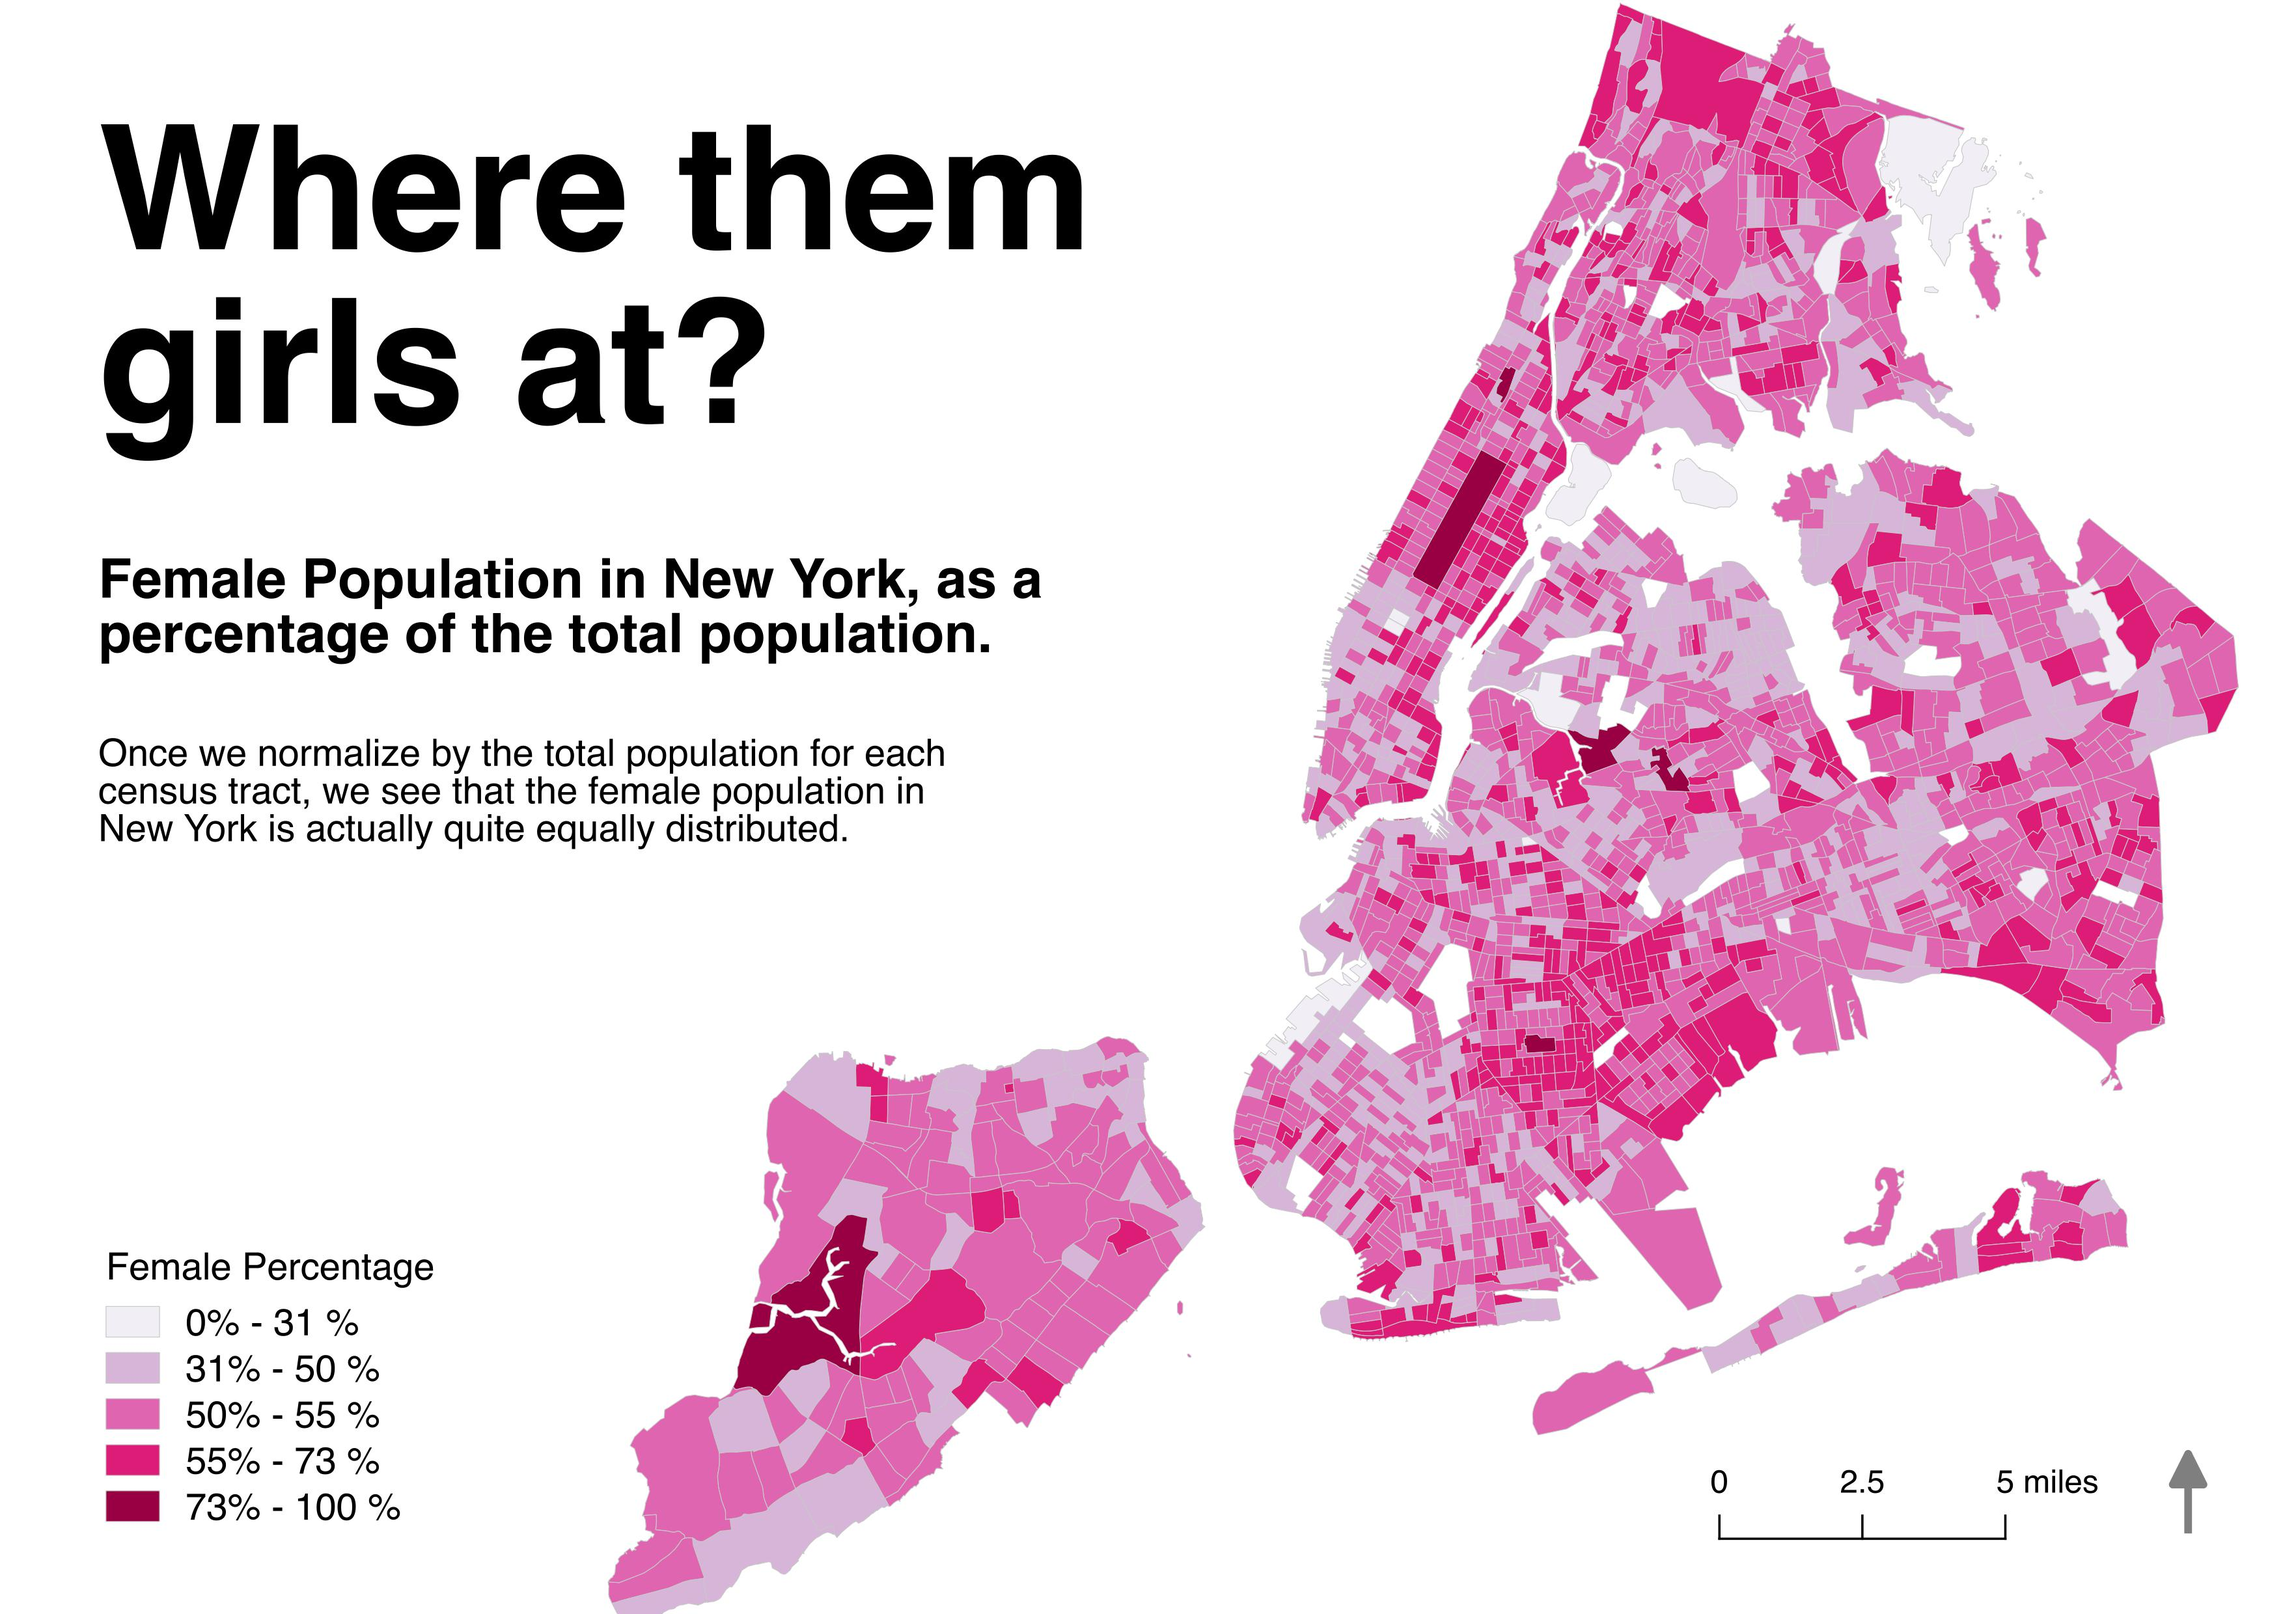
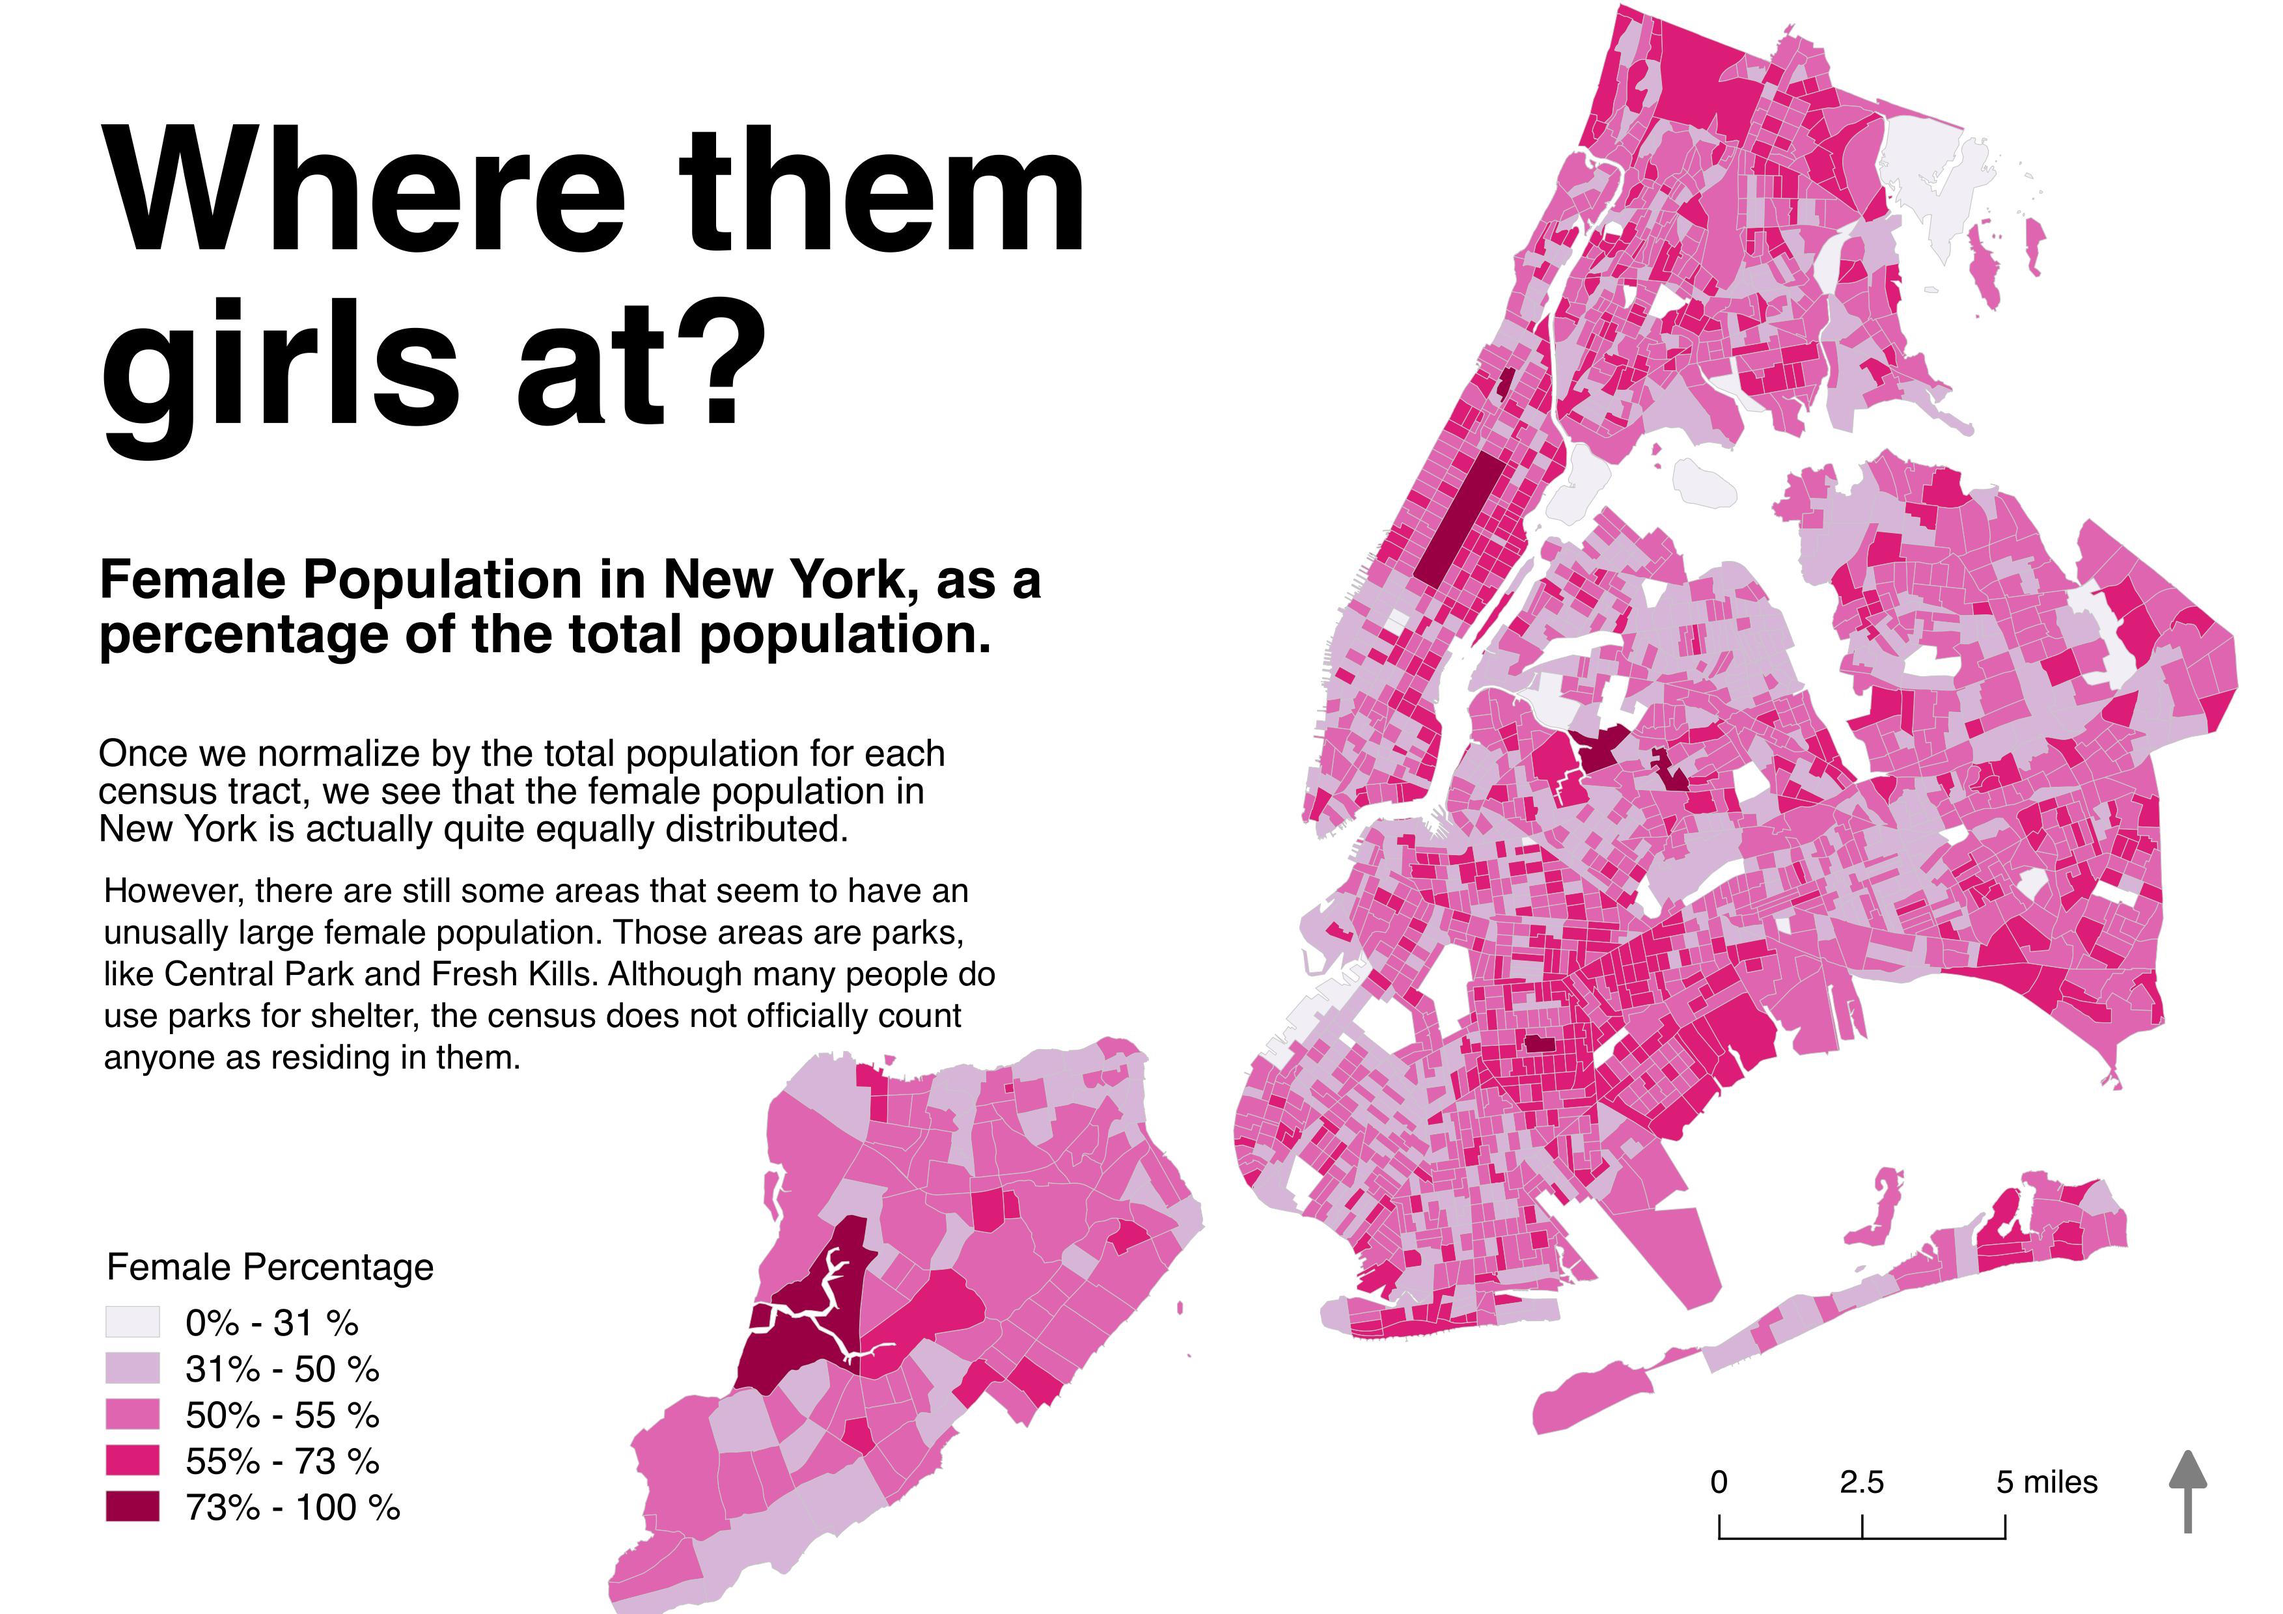
adding a map to a6

Changed region(s): [[0.0311, 0.5278, 0.4351, 0.6831]]

diff --git a/A6/misrepresentation.html b/A6/misrepresentation.html
@@ -1,6 +1,6 @@
 <html>
 	<head>
-		<title>Anna Carlson's A4892 A2.1 12 Clock Sketches</title>
+		<title>Anna Carlson's A4892 A6 Misrepresenation</title>
 		<style>
 		img{
 			width: 80%;
@@ -11,7 +11,8 @@
 	</head>
 	<body>
 		<img src="interval.jpeg"><br><br><br>
-		<img src="quantiles.jpeg"><br>
-		<img src="percentage.jpeg"><br>
+		<img src="quantiles.jpeg"><br><br>
+		<img src="percentage.jpeg"><br><br>
+		<img src="percentage_no_parks.jpeg"><br>
 	</body>
 </html>
